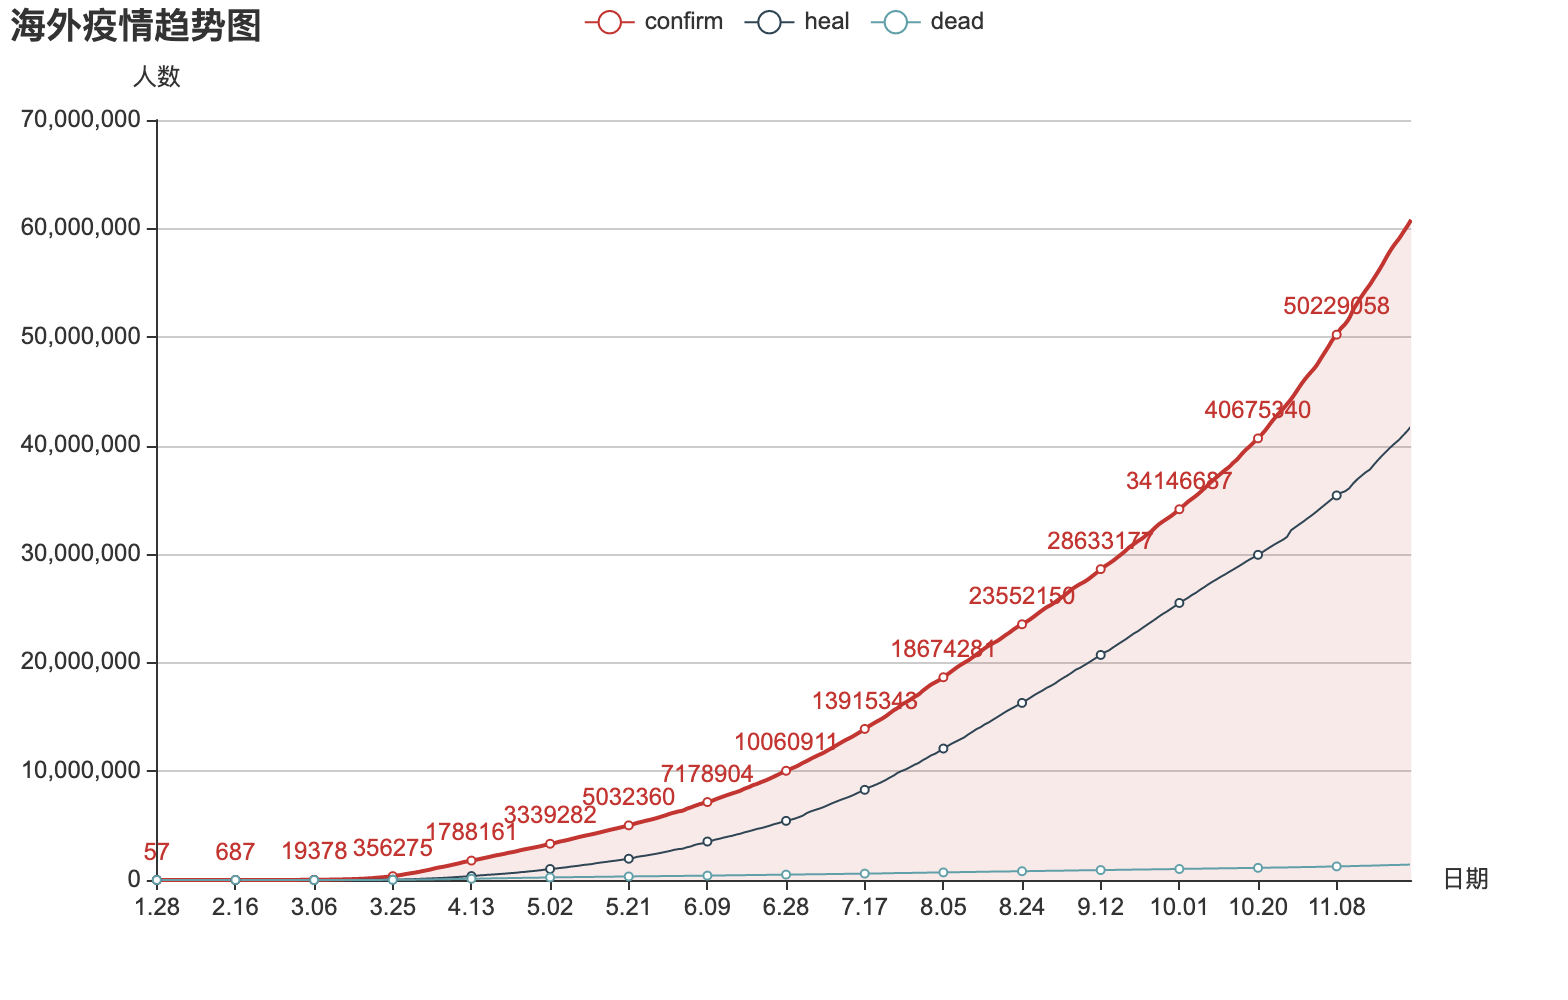
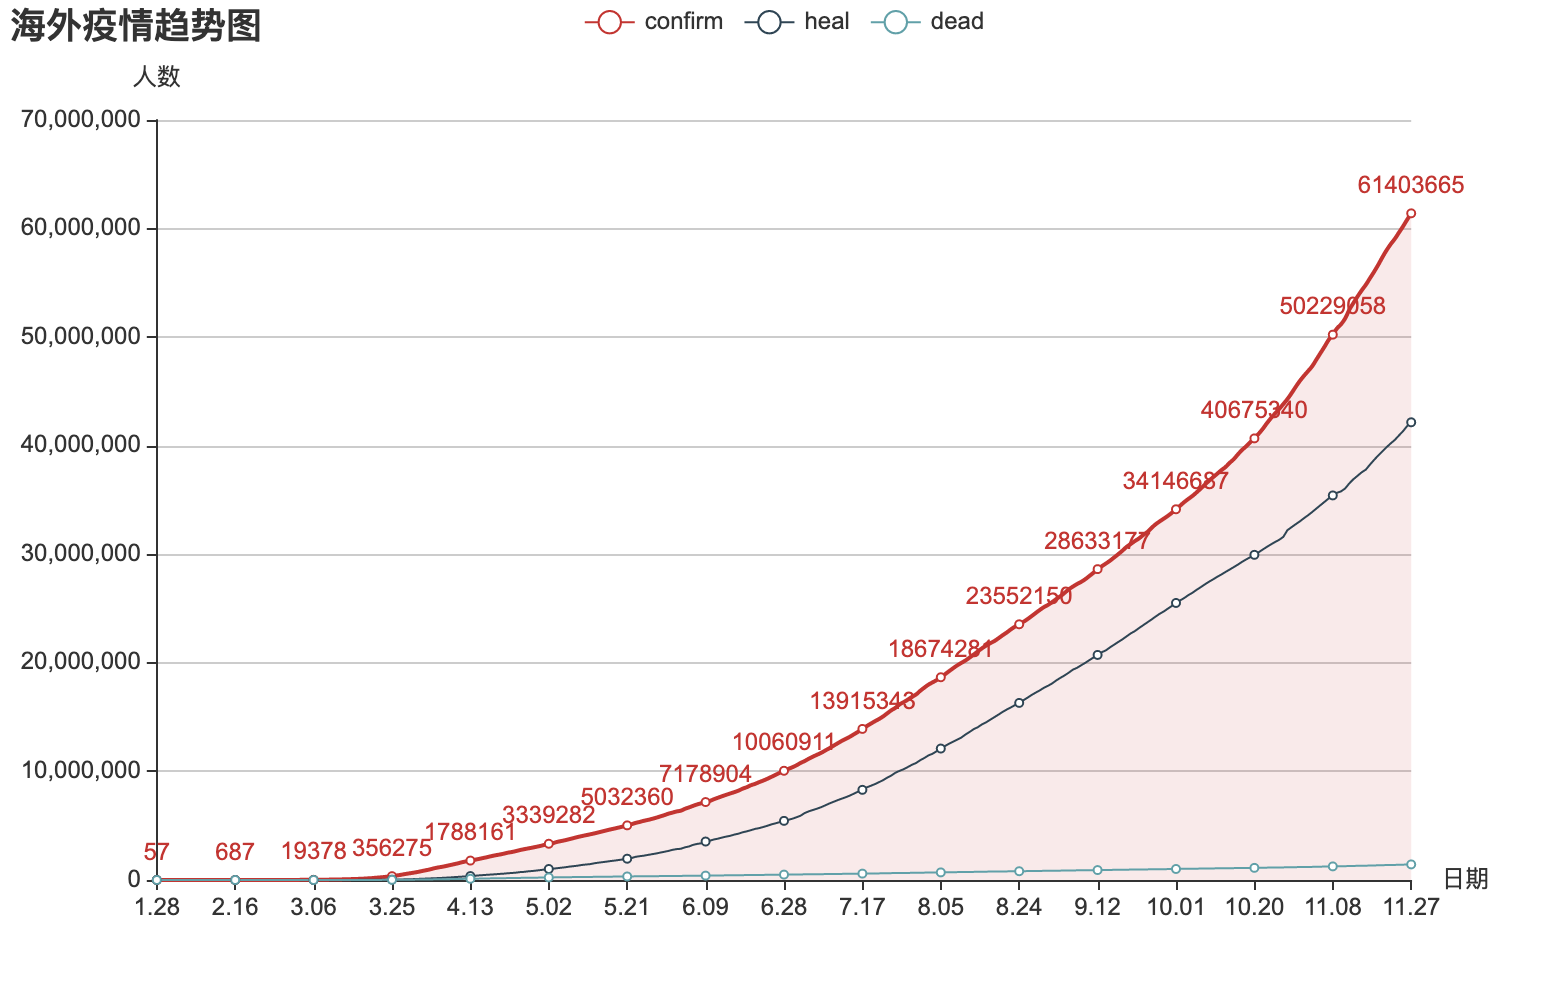
update

diff --git a/html/abroad.html b/html/abroad.html
@@ -7,11 +7,11 @@
 
 </head>
 <body>
-    <div id="ae136efdf1f242ac8bd8c585d9271e83" style="width:100; height:500px;"></div>
+    <div id="a55d3de571414c948bfe62bd21ec8b64" style="width:100; height:500px;"></div>
     <script>
-        var chart_ae136efdf1f242ac8bd8c585d9271e83 = echarts.init(
-            document.getElementById('ae136efdf1f242ac8bd8c585d9271e83'), 'white', {renderer: 'canvas'});
-        var option_ae136efdf1f242ac8bd8c585d9271e83 = {
+        var chart_a55d3de571414c948bfe62bd21ec8b64 = echarts.init(
+            document.getElementById('a55d3de571414c948bfe62bd21ec8b64'), 'white', {renderer: 'canvas'});
+        var option_a55d3de571414c948bfe62bd21ec8b64 = {
     "color": [
         "#c23531",
         "#2f4554",
@@ -1262,6 +1262,10 @@
                 [
                     "11.26",
                     "60807442"
+                ],
+                [
+                    "11.27",
+                    "61403665"
                 ]
             ],
             "label": {
@@ -2502,6 +2506,10 @@
                 [
                     "11.26",
                     "41801231"
+                ],
+                [
+                    "11.27",
+                    "42157142"
                 ]
             ],
             "label": {
@@ -3742,6 +3750,10 @@
                 [
                     "11.26",
                     "1424747"
+                ],
+                [
+                    "11.27",
+                    "1435599"
                 ]
             ],
             "label": {
@@ -4135,7 +4147,8 @@
                 "11.23",
                 "11.24",
                 "11.25",
-                "11.26"
+                "11.26",
+                "11.27"
             ]
         }
     ],
@@ -4143,7 +4156,7 @@
         "text": "\u6d77\u5916\u75ab\u60c5\u8d8b\u52bf\u56fe"
     }
 };
-        chart_ae136efdf1f242ac8bd8c585d9271e83.setOption(option_ae136efdf1f242ac8bd8c585d9271e83);
+        chart_a55d3de571414c948bfe62bd21ec8b64.setOption(option_a55d3de571414c948bfe62bd21ec8b64);
     </script>
 </body>
 </html>

diff --git a/html/global.html b/html/global.html
@@ -7,11 +7,11 @@
 
 </head>
 <body>
-    <div id="db427b4a059f4c1b95de3bc6be1e4c43" style="width:100; height:500px;"></div>
+    <div id="49994609d6ab44a08baf6a65556770ad" style="width:100; height:500px;"></div>
     <script>
-        var chart_db427b4a059f4c1b95de3bc6be1e4c43 = echarts.init(
-            document.getElementById('db427b4a059f4c1b95de3bc6be1e4c43'), 'white', {renderer: 'canvas'});
-        var option_db427b4a059f4c1b95de3bc6be1e4c43 = {
+        var chart_49994609d6ab44a08baf6a65556770ad = echarts.init(
+            document.getElementById('49994609d6ab44a08baf6a65556770ad'), 'white', {renderer: 'canvas'});
+        var option_49994609d6ab44a08baf6a65556770ad = {
     "color": [
         "#c23531",
         "#2f4554",
@@ -1318,6 +1318,10 @@
                 [
                     "11.25",
                     "60281997"
+                ],
+                [
+                    "11.26",
+                    "60900555"
                 ]
             ],
             "label": {
@@ -2614,6 +2618,10 @@
                 [
                     "11.25",
                     "41419305"
+                ],
+                [
+                    "11.26",
+                    "41888690"
                 ]
             ],
             "label": {
@@ -3910,6 +3918,10 @@
                 [
                     "11.25",
                     "1417622"
+                ],
+                [
+                    "11.26",
+                    "1429496"
                 ]
             ],
             "label": {
@@ -4317,7 +4329,8 @@
                 "11.22",
                 "11.23",
                 "11.24",
-                "11.25"
+                "11.25",
+                "11.26"
             ]
         }
     ],
@@ -4325,7 +4338,7 @@
         "text": "\u5168\u7403\u75ab\u60c5\u8d8b\u52bf\u56fe"
     }
 };
-        chart_db427b4a059f4c1b95de3bc6be1e4c43.setOption(option_db427b4a059f4c1b95de3bc6be1e4c43);
+        chart_49994609d6ab44a08baf6a65556770ad.setOption(option_49994609d6ab44a08baf6a65556770ad);
     </script>
 </body>
 </html>

diff --git a/test.py b/test.py
@@ -1,44 +1,115 @@
+4
+5
+6
+7
+8
+9
+10
+11
+12
+13
+14
+15
+16
+17
+18
+19
+20
+21
+22
+23
+24
+25
+26
+27
+28
+29
+30
+31
+32
+33
+34
+35
+36
+37
+38
+39
+40
+41
+42
+43
+44
+45
+46
+47
+48
+49
+50
+51
+52
+53
+54
+55
+56
+57
+58
+59
+60
+61
 # -*- coding: utf-8 -*-
+
 """
-@Author billie
-@Date 2020/11/25 3:20 上午
-@Describe 
+PyQt5 tutorial 
+
+In this example, we determine the event sender
+object.
+
+author: py40.com
+last edited: 2017年3月
 """
-# 导入，Qapplication，单行文本框，窗口
-from PyQt5.QtWidgets import QApplication, QLineEdit, QWidget
-# 导入文本校验器：整数校验器,浮点数校验器,正则校验器
-from PyQt5.QtGui import QIntValidator, QDoubleValidator, QRegExpValidator
-# 导入Qt正则模块
-from PyQt5.QtCore import QRegExp
 import sys
+from PyQt5.QtWidgets import (QMainWindow, QTextEdit,
+                             QAction, QFileDialog, QApplication)
+from PyQt5.QtGui import QIcon
 
 
-class lineEditDemo(QWidget):
-    def __init__(self, parent=None):
-        super(lineEditDemo, self).__init__(parent)
-        self.setWindowTitle('QLineEdit例子')
-        self.resize(300, 300)
+class Example(QMainWindow):
 
-        int_validato = QIntValidator(50, 100, self)  # 实例化整型验证器，并设置范围为50-100
-        int_le = QLineEdit(self)  # 整型文本框
-        int_le.setValidator(int_validato)  # 设置验证
-        int_le.move(50, 10)
+    def __init__(self):
+        super().__init__()
 
-        # 实例化浮点型验证器，并设置范围为-100到100，并精确2位小数
-        float_validato = QDoubleValidator(-100, 100, 2, self)
-        float_le = QLineEdit(self)  # 浮点文本框
-        float_le.setValidator(float_validato)  # 设置验证
-        float_le.move(50, 50)
+        self.initUI()
 
-        re = QRegExp('[a-zA-Z0-9]+$')  # 正则:只允许出现的大小写字母和数字
-        re_validato = QRegExpValidator(re, self)  # 实例化正则验证器
-        re_le = QLineEdit(self)  # 正则文本框
-        re_le.setValidator(re_validato)  # 设置验证
-        re_le.move(50, 90)
+    def initUI(self):
+        self.textEdit = QTextEdit()
+        self.setCentralWidget(self.textEdit)
+        self.statusBar()
+
+        openFile = QAction(QIcon('open.png'), 'Open', self)
+        openFile.setShortcut('Ctrl+O')
+        openFile.setStatusTip('Open new File')
+        openFile.triggered.connect(self.showDialog)
+
+        menubar = self.menuBar()
+        fileMenu = menubar.addMenu('&File')
+        fileMenu.addAction(openFile)
+
+        self.setGeometry(300, 300, 350, 300)
+        self.setWindowTitle('File dialog')
+        self.show()
+
+    def showDialog(self):
+        fname = QFileDialog.getOpenFileName(self, 'Open file', '/home')
+
+        if fname[0]:
+            f = open(fname[0], 'r')
+
+            with f:
+                data = f.read()
+                self.textEdit.setText(data)
 
 
 if __name__ == '__main__':
     app = QApplication(sys.argv)
-    win = lineEditDemo()
-    win.show()
+    ex = Example()
     sys.exit(app.exec_())

diff --git a/GUI.py b/GUI.py
@@ -77,12 +77,10 @@ class GUI(QWidget):
     def Text(self,text,mode=0):
         if mode==0:
             self.text.append("[{}]{}".format(time.strftime('%H:%M:%S'),text))
-            PyQt5.QtWidgets.QApplication.processEvents()
-            PyQt5.QtWidgets.QApplication.processEvents()
         elif mode==1:
             self.text.append("{}".format(text))
-            PyQt5.QtWidgets.QApplication.processEvents()
-            PyQt5.QtWidgets.QApplication.processEvents()
+        PyQt5.QtWidgets.QApplication.processEvents()
+        PyQt5.QtWidgets.QApplication.processEvents()
 
     # 事件 - 获取下拉框的选择
     def onActivated(self, choice):

diff --git a/chart.py b/chart.py
@@ -132,5 +132,5 @@ def make_chart_plt(csvName,chartName):
     plt.suptitle(chartName+"疫情趋势图",y=1)#图表大标题,y为标题位置的偏移距离
     plt.title("@author:billie(数据来自腾讯)",loc='right', fontsize=8)#子图表标题
     plt.legend()  # 设置图例的前题是y指定了label
-    plt.savefig("./charts/{}.png".format(chartName),dpi=400,bbox_inches = 'tight')
+    plt.savefig("./charts/{}.png".format(chartName),dpi=1000,bbox_inches = 'tight')
     print('已制作plt图表!')
